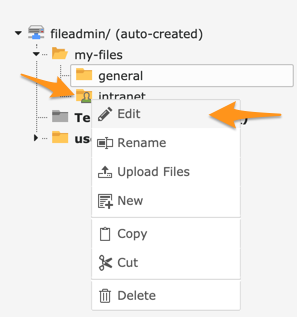
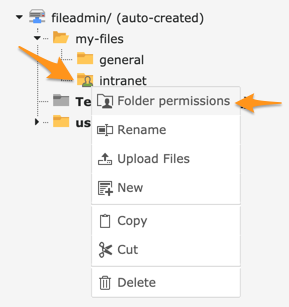
[TASK] Enhance context menu for protecting folders
Resolves: #11

diff --git a/Classes/ContextMenu/ItemProviders/FileProvider.php b/Classes/ContextMenu/ItemProviders/FileProvider.php
@@ -33,7 +33,8 @@ class FileProvider extends \TYPO3\CMS\Filelist\ContextMenu\ItemProviders\FilePro
     {
         parent::initialize();
         if ($this->record instanceof Folder) {
-            $this->itemsConfiguration['edit']['iconIdentifier'] = 'actions-open';
+            $this->itemsConfiguration['edit']['label'] = 'LLL:EXT:fal_protect/Resources/Private/Language/locallang_db.xlf:clickmenu.folderPermissions';
+            $this->itemsConfiguration['edit']['iconIdentifier'] = 'actions-protect-folder';
             $this->itemsConfiguration['edit']['callbackAction'] = 'editFolder';
         }
     }

diff --git a/ext_tables.php b/ext_tables.php
@@ -1,0 +1,15 @@
+<?php
+defined('TYPO3_MODE') || die();
+
+call_user_func(function(string $_EXTKEY) {
+
+    $iconRegistry = \TYPO3\CMS\Core\Utility\GeneralUtility::makeInstance(\TYPO3\CMS\Core\Imaging\IconRegistry::class);
+    $iconRegistry->registerIcon(
+        'actions-protect-folder',
+        \TYPO3\CMS\Core\Imaging\IconProvider\SvgIconProvider::class,
+        [
+            'source' => 'EXT:' . $_EXTKEY . '/Resources/Public/Icons/protect-folder.svg',
+        ]
+    );
+
+}, 'fal_protect');
